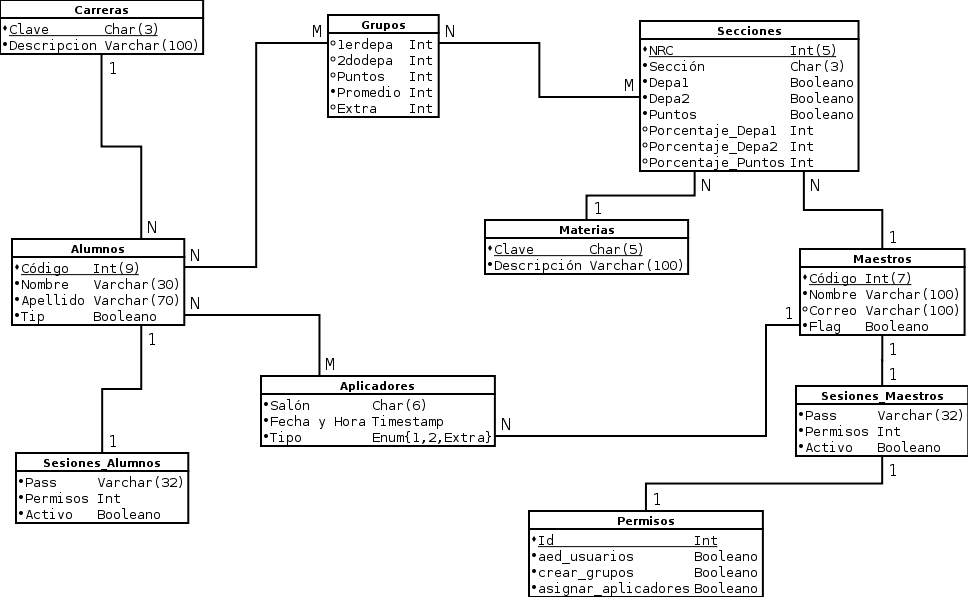
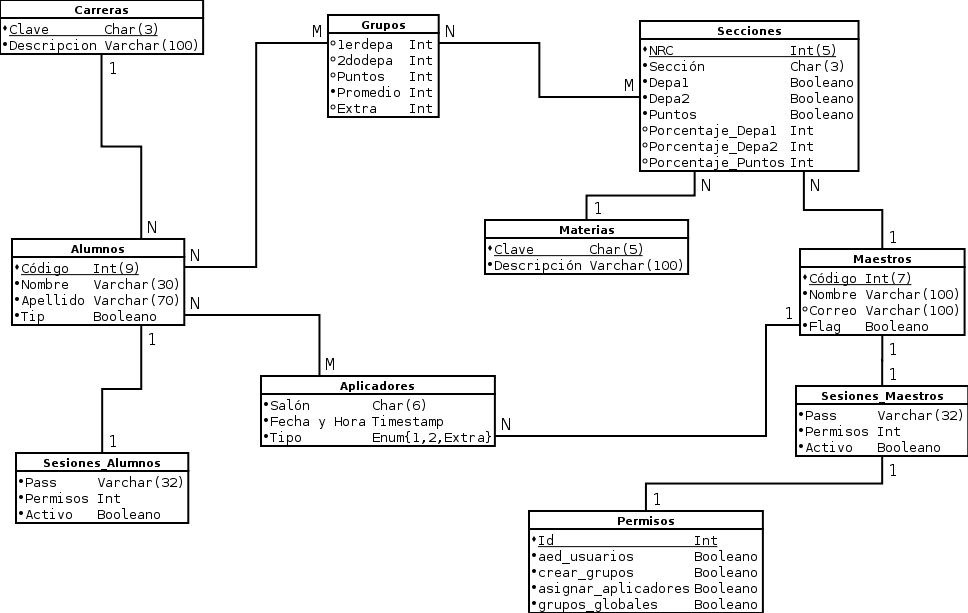
Nuevo permiso "Ver grupos globales" (grupos_globales)
* Actualizo diagrama Entidad Relación

diff --git a/html/admin/grupos.php b/html/admin/grupos.php
@@ -35,7 +35,12 @@
 		echo "<thead><tr><th>NRC</th><th>Materia</th><th>Maestro</th></tr></thead>\n";
 		
 		/* Empezar la consulta mysql */
-		$query = "SELECT sec.Nrc, sec.Materia, mat.Descripcion, sec.Seccion, sec.Maestro, m.Nombre FROM Secciones AS sec INNER JOIN Materias AS mat ON sec.Materia = mat.Clave INNER JOIN Maestros AS m ON sec.Maestro = m.Codigo LIMIT ". $offset . ",". $cant;
+		if ($_SESSION['permisos']['grupos_globales'] == 1) {
+			$query = "SELECT sec.Nrc, sec.Materia, mat.Descripcion, sec.Seccion, sec.Maestro, m.Nombre FROM Secciones AS sec INNER JOIN Materias AS mat ON sec.Materia = mat.Clave INNER JOIN Maestros AS m ON sec.Maestro = m.Codigo LIMIT ". $offset . ",". $cant;
+		} else {
+			$query = sprintf ("SELECT sec.Nrc, sec.Materia, mat.Descripcion, sec.Seccion, sec.Maestro, m.Nombre FROM Secciones AS sec INNER JOIN Materias AS mat ON sec.Materia = mat.Clave INNER JOIN Maestros AS m ON sec.Maestro = m.Codigo WHERE sec.Maestro='%s' LIMIT %s,%s", $_SESSION['codigo'], $offset, $cant);
+		}
+		var_dump ($query);
 		
 		$result = mysql_query ($query, $mysql_con);
 		
